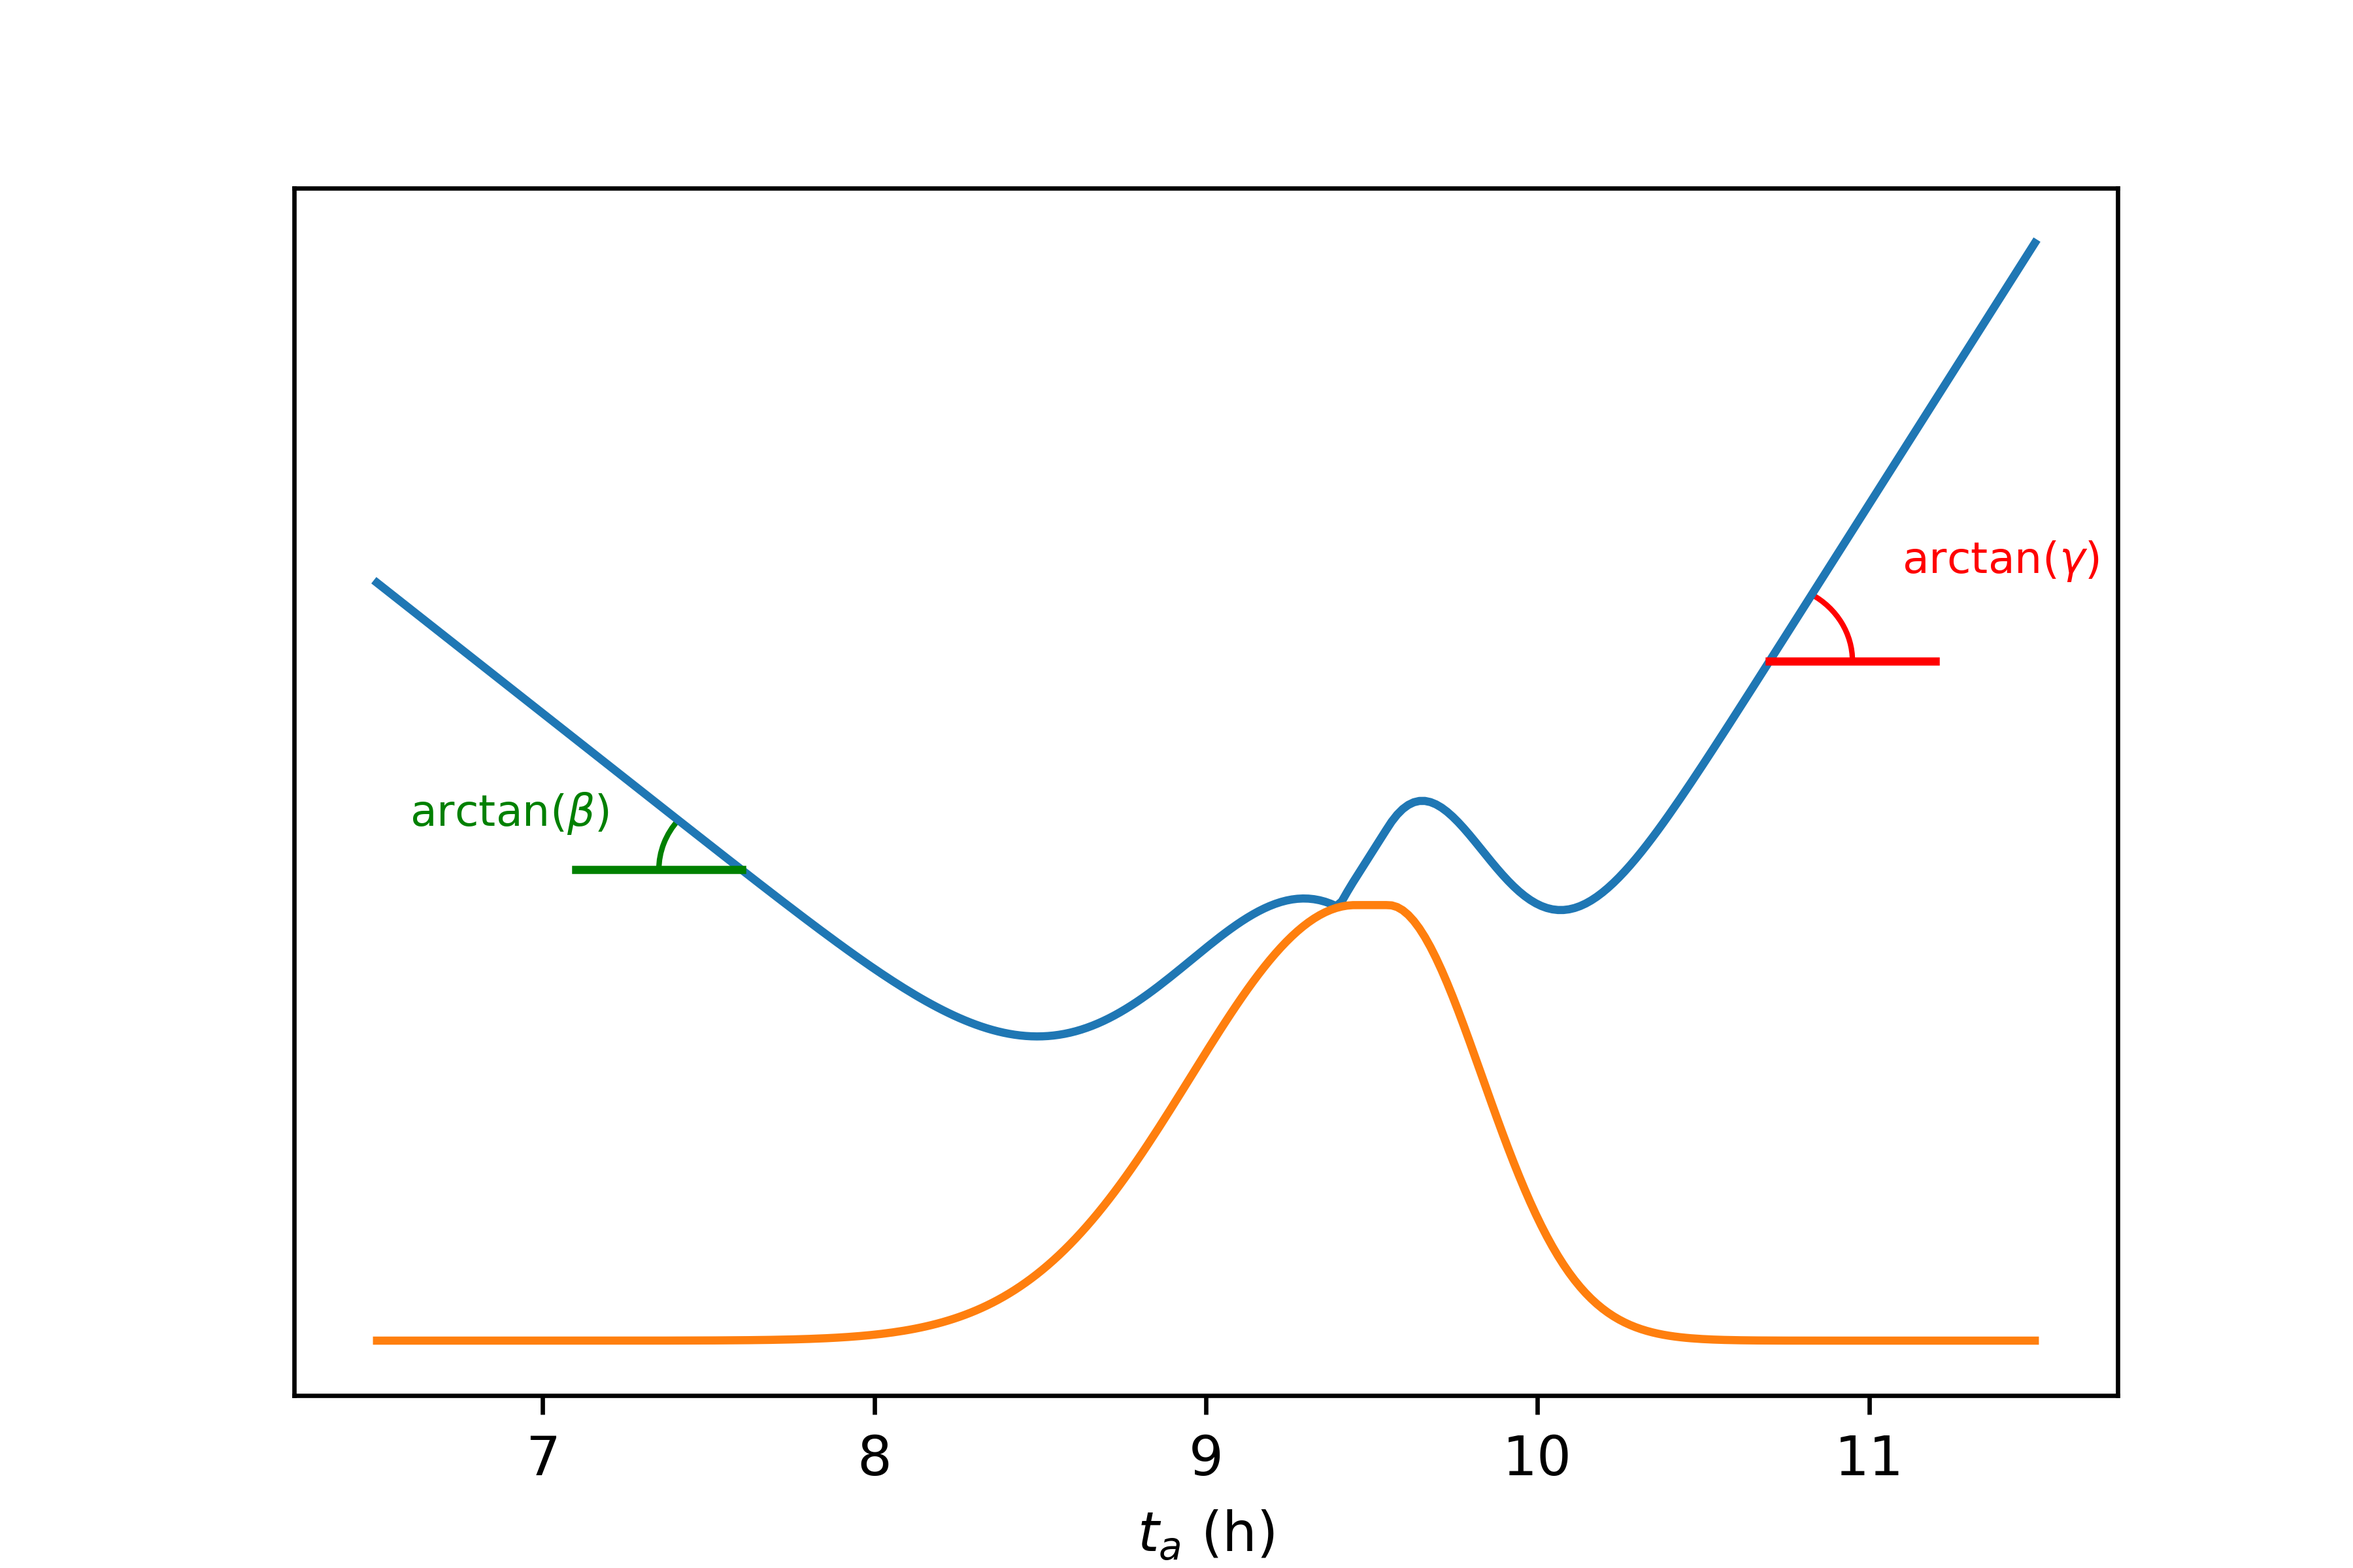
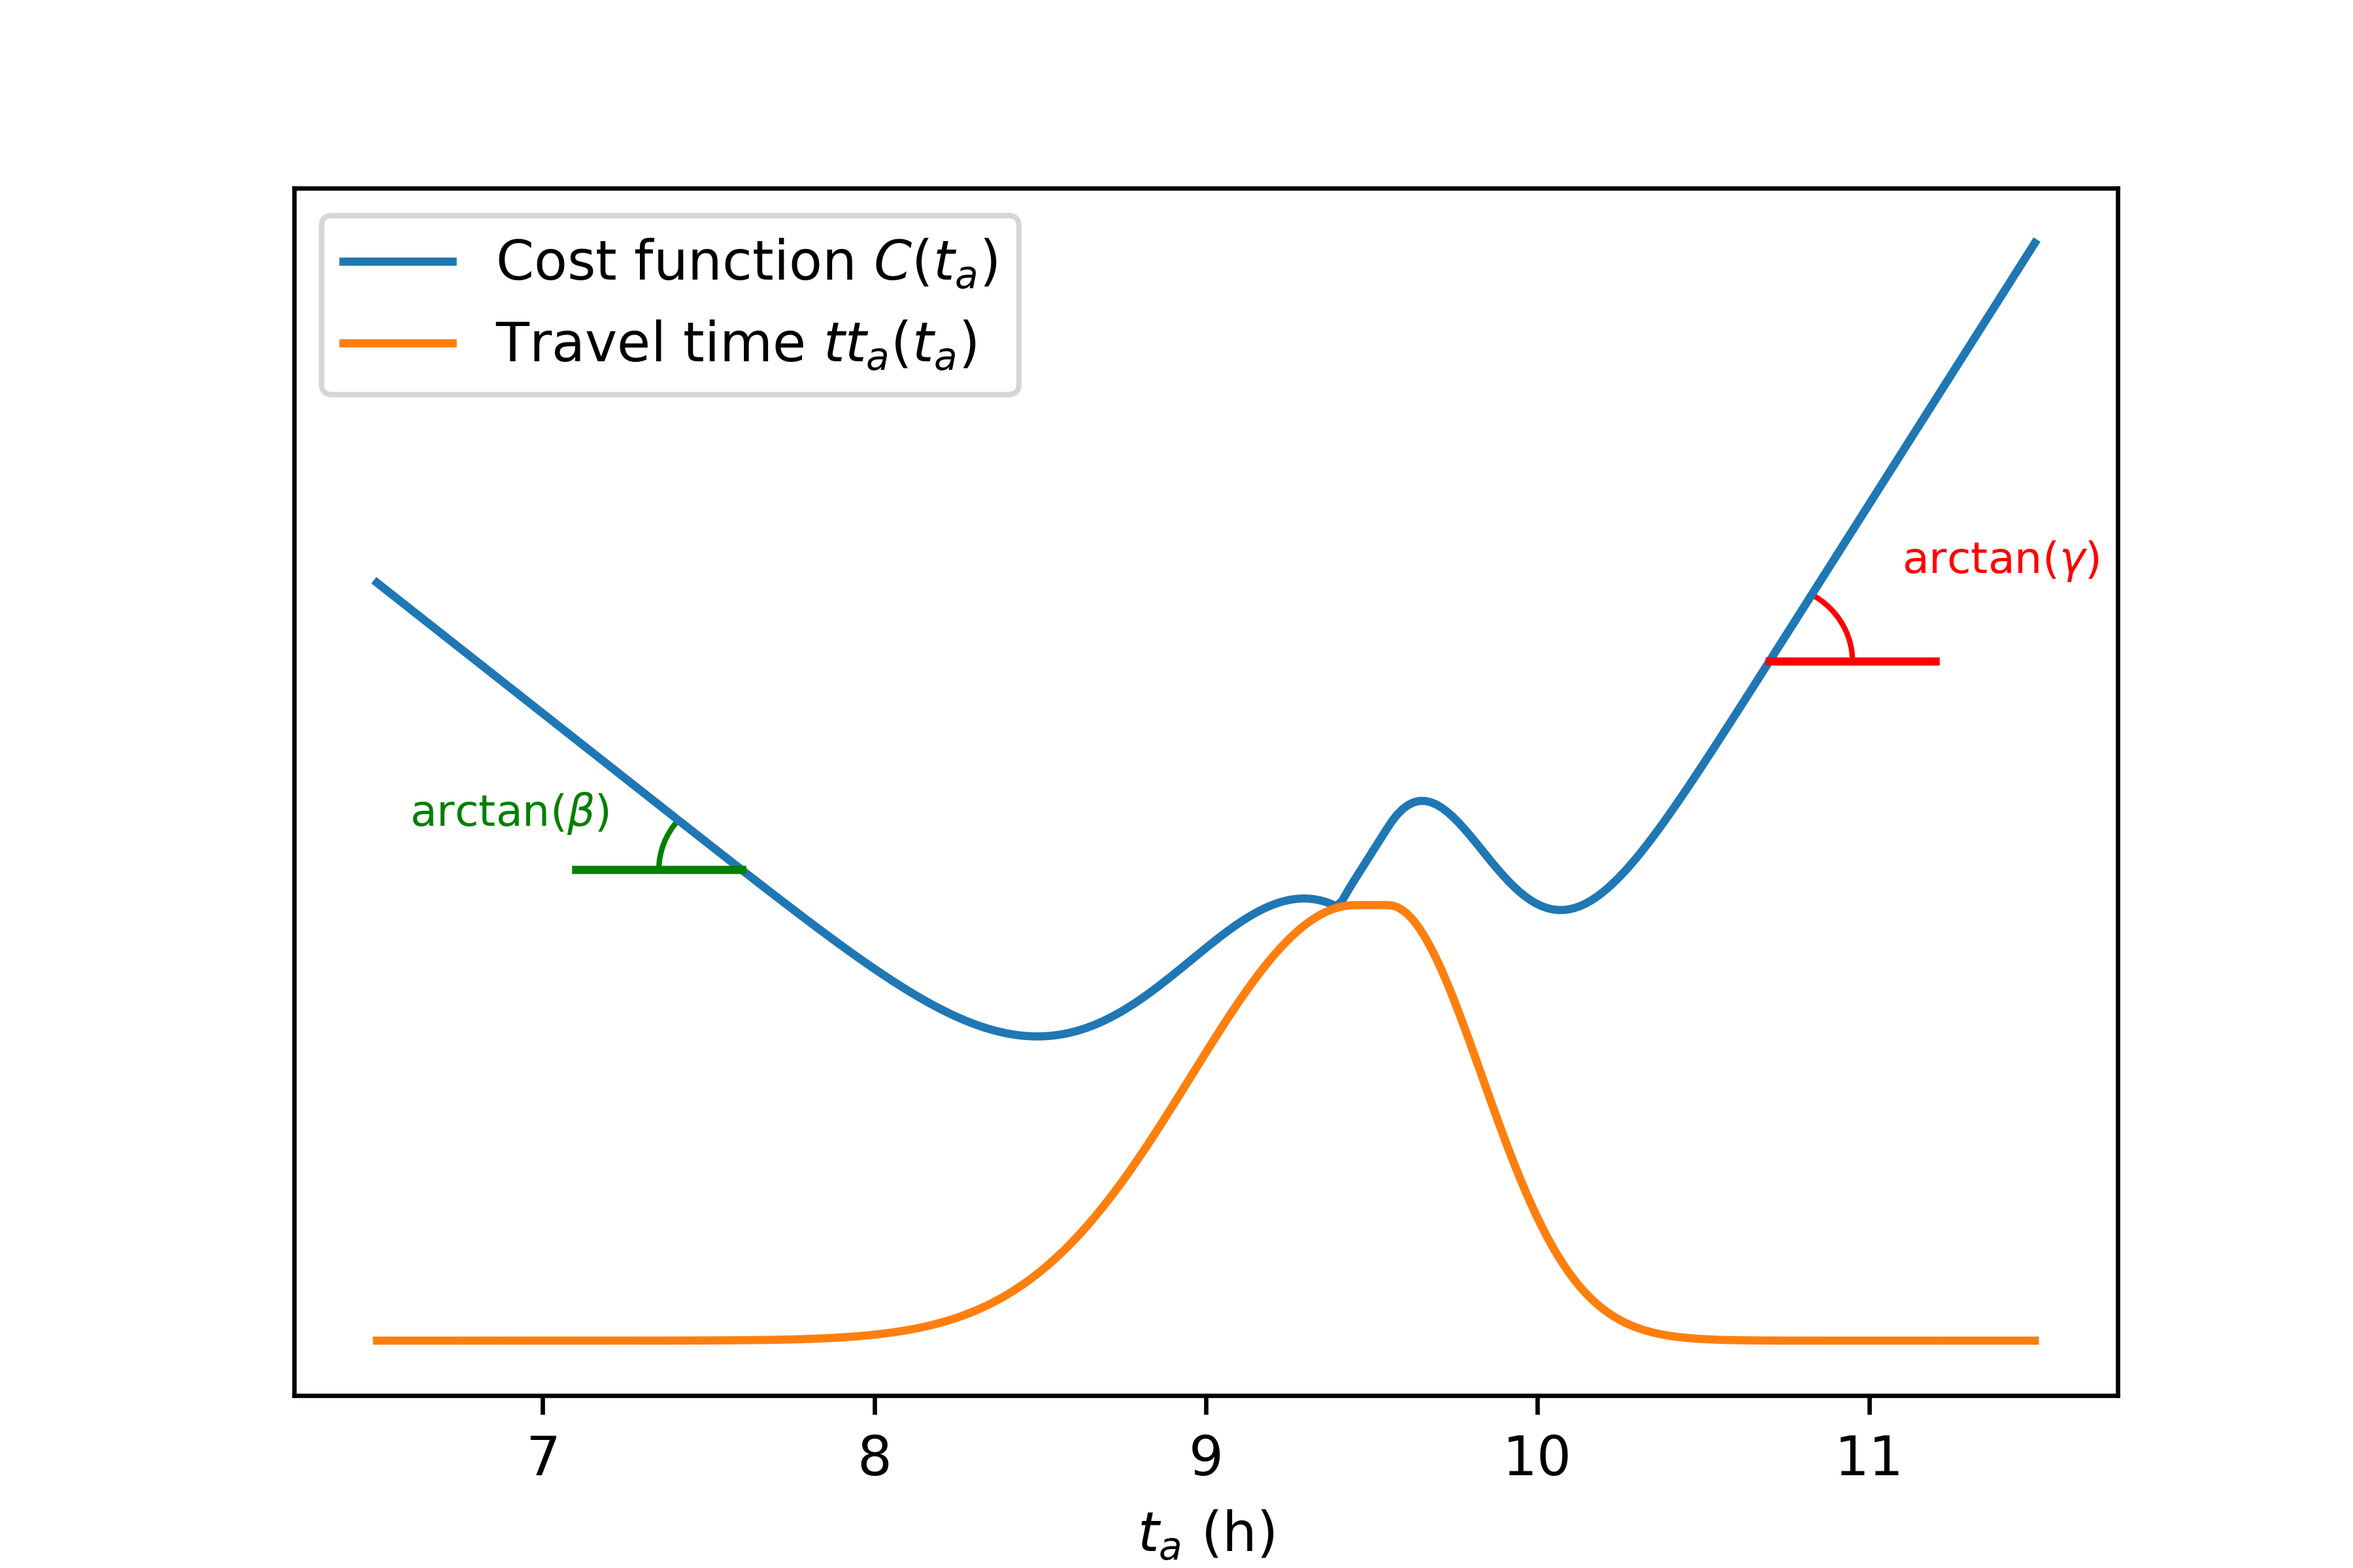
Added legend

Changed region(s): [[0.1244, 0.125, 0.4356, 0.2812]]

diff --git a/plot_slides.py b/plot_slides.py
@@ -185,8 +185,8 @@ arc_len = .5
 text_dist = .4
 fig_cost, ax_cost = plt.subplots(figsize=(6, 4))
 x = np.linspace(6.5, 11.5, 300)
-ax_cost.plot(x, cost(tt_cost)(x, b, g, star))
-ax_cost.plot(x, tt_cost.f(x))
+ax_cost.plot(x, cost(tt_cost)(x, b, g, star), label=r"Cost function $C(t_a)$")
+ax_cost.plot(x, tt_cost.f(x), label = r"Travel time $tt_a(t_a)$")
 g_arc = Arc([star + x_g, cost(tt_cost)(star + x_g, b, g, star)], arc_len,
             arc_len*ax_cost.get_data_ratio()**(1/2), theta2=np.degrees(np.arctan(g)), color=late_color)
 b_arc = Arc([star - x_b, cost(tt_cost)(star - x_b, b, g, star)], arc_len,
@@ -208,4 +208,6 @@ ax_cost.text(star - x_b - text_dist, cost(tt_cost)(star - x_b, b, g, star) +
 
 ax_cost.set_yticks([])
 ax_cost.set_xlabel(r"$t_a$ (h)")
+ax_cost.legend()
 fig_cost.savefig("slides/img/cost.png", dpi=600)
+plt.close(fig_cost)
